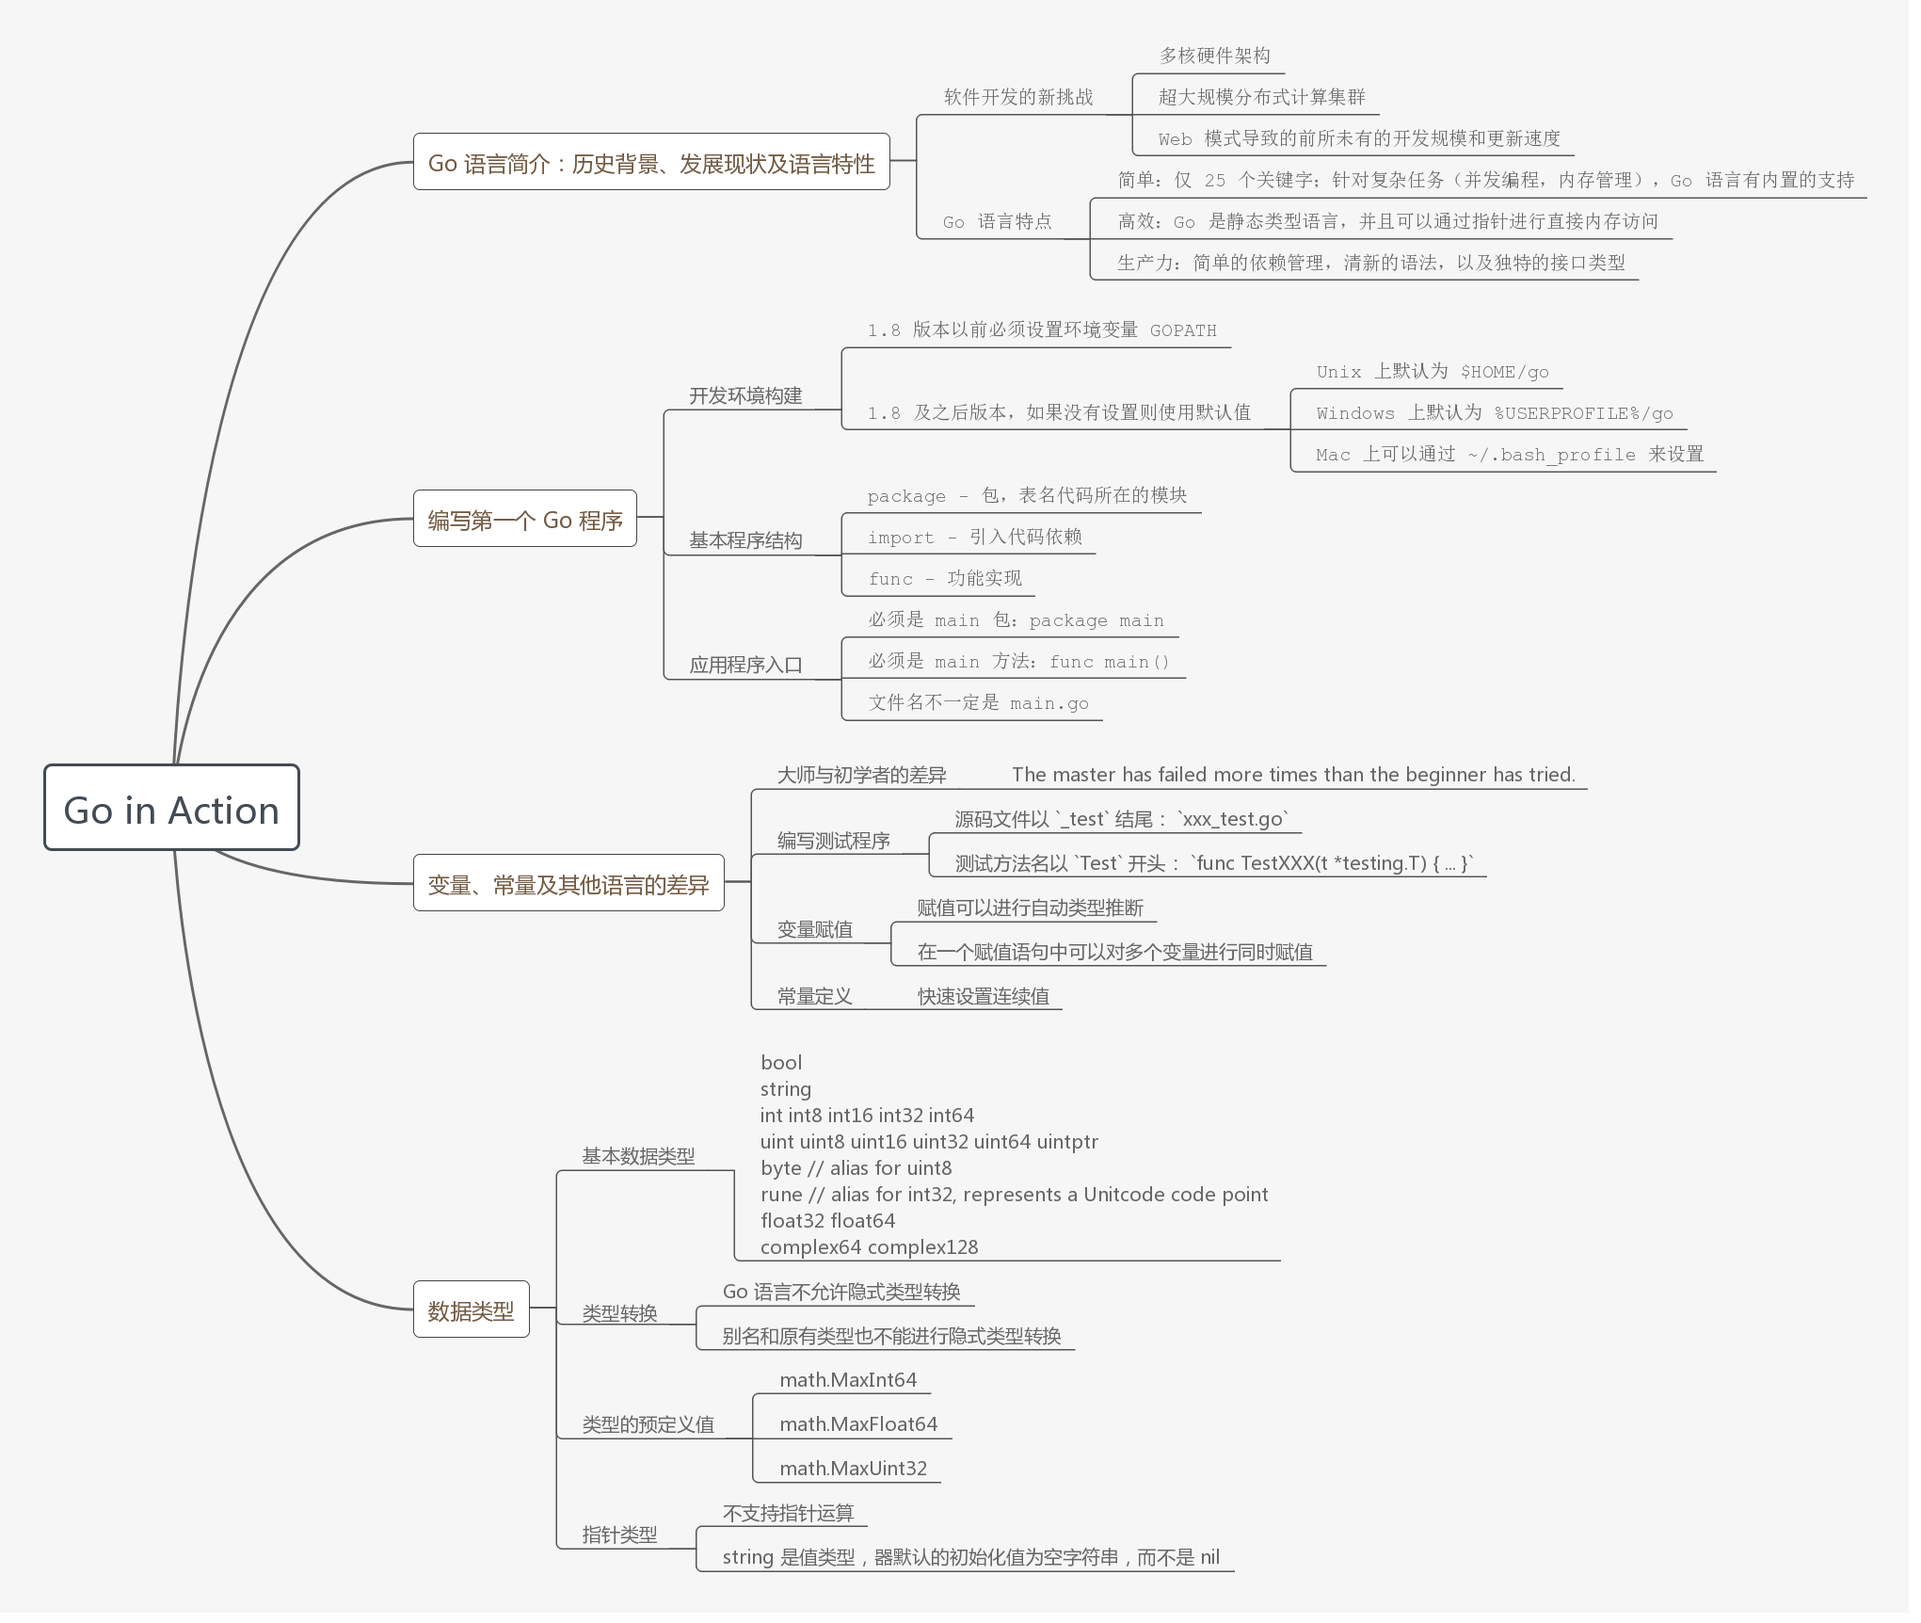
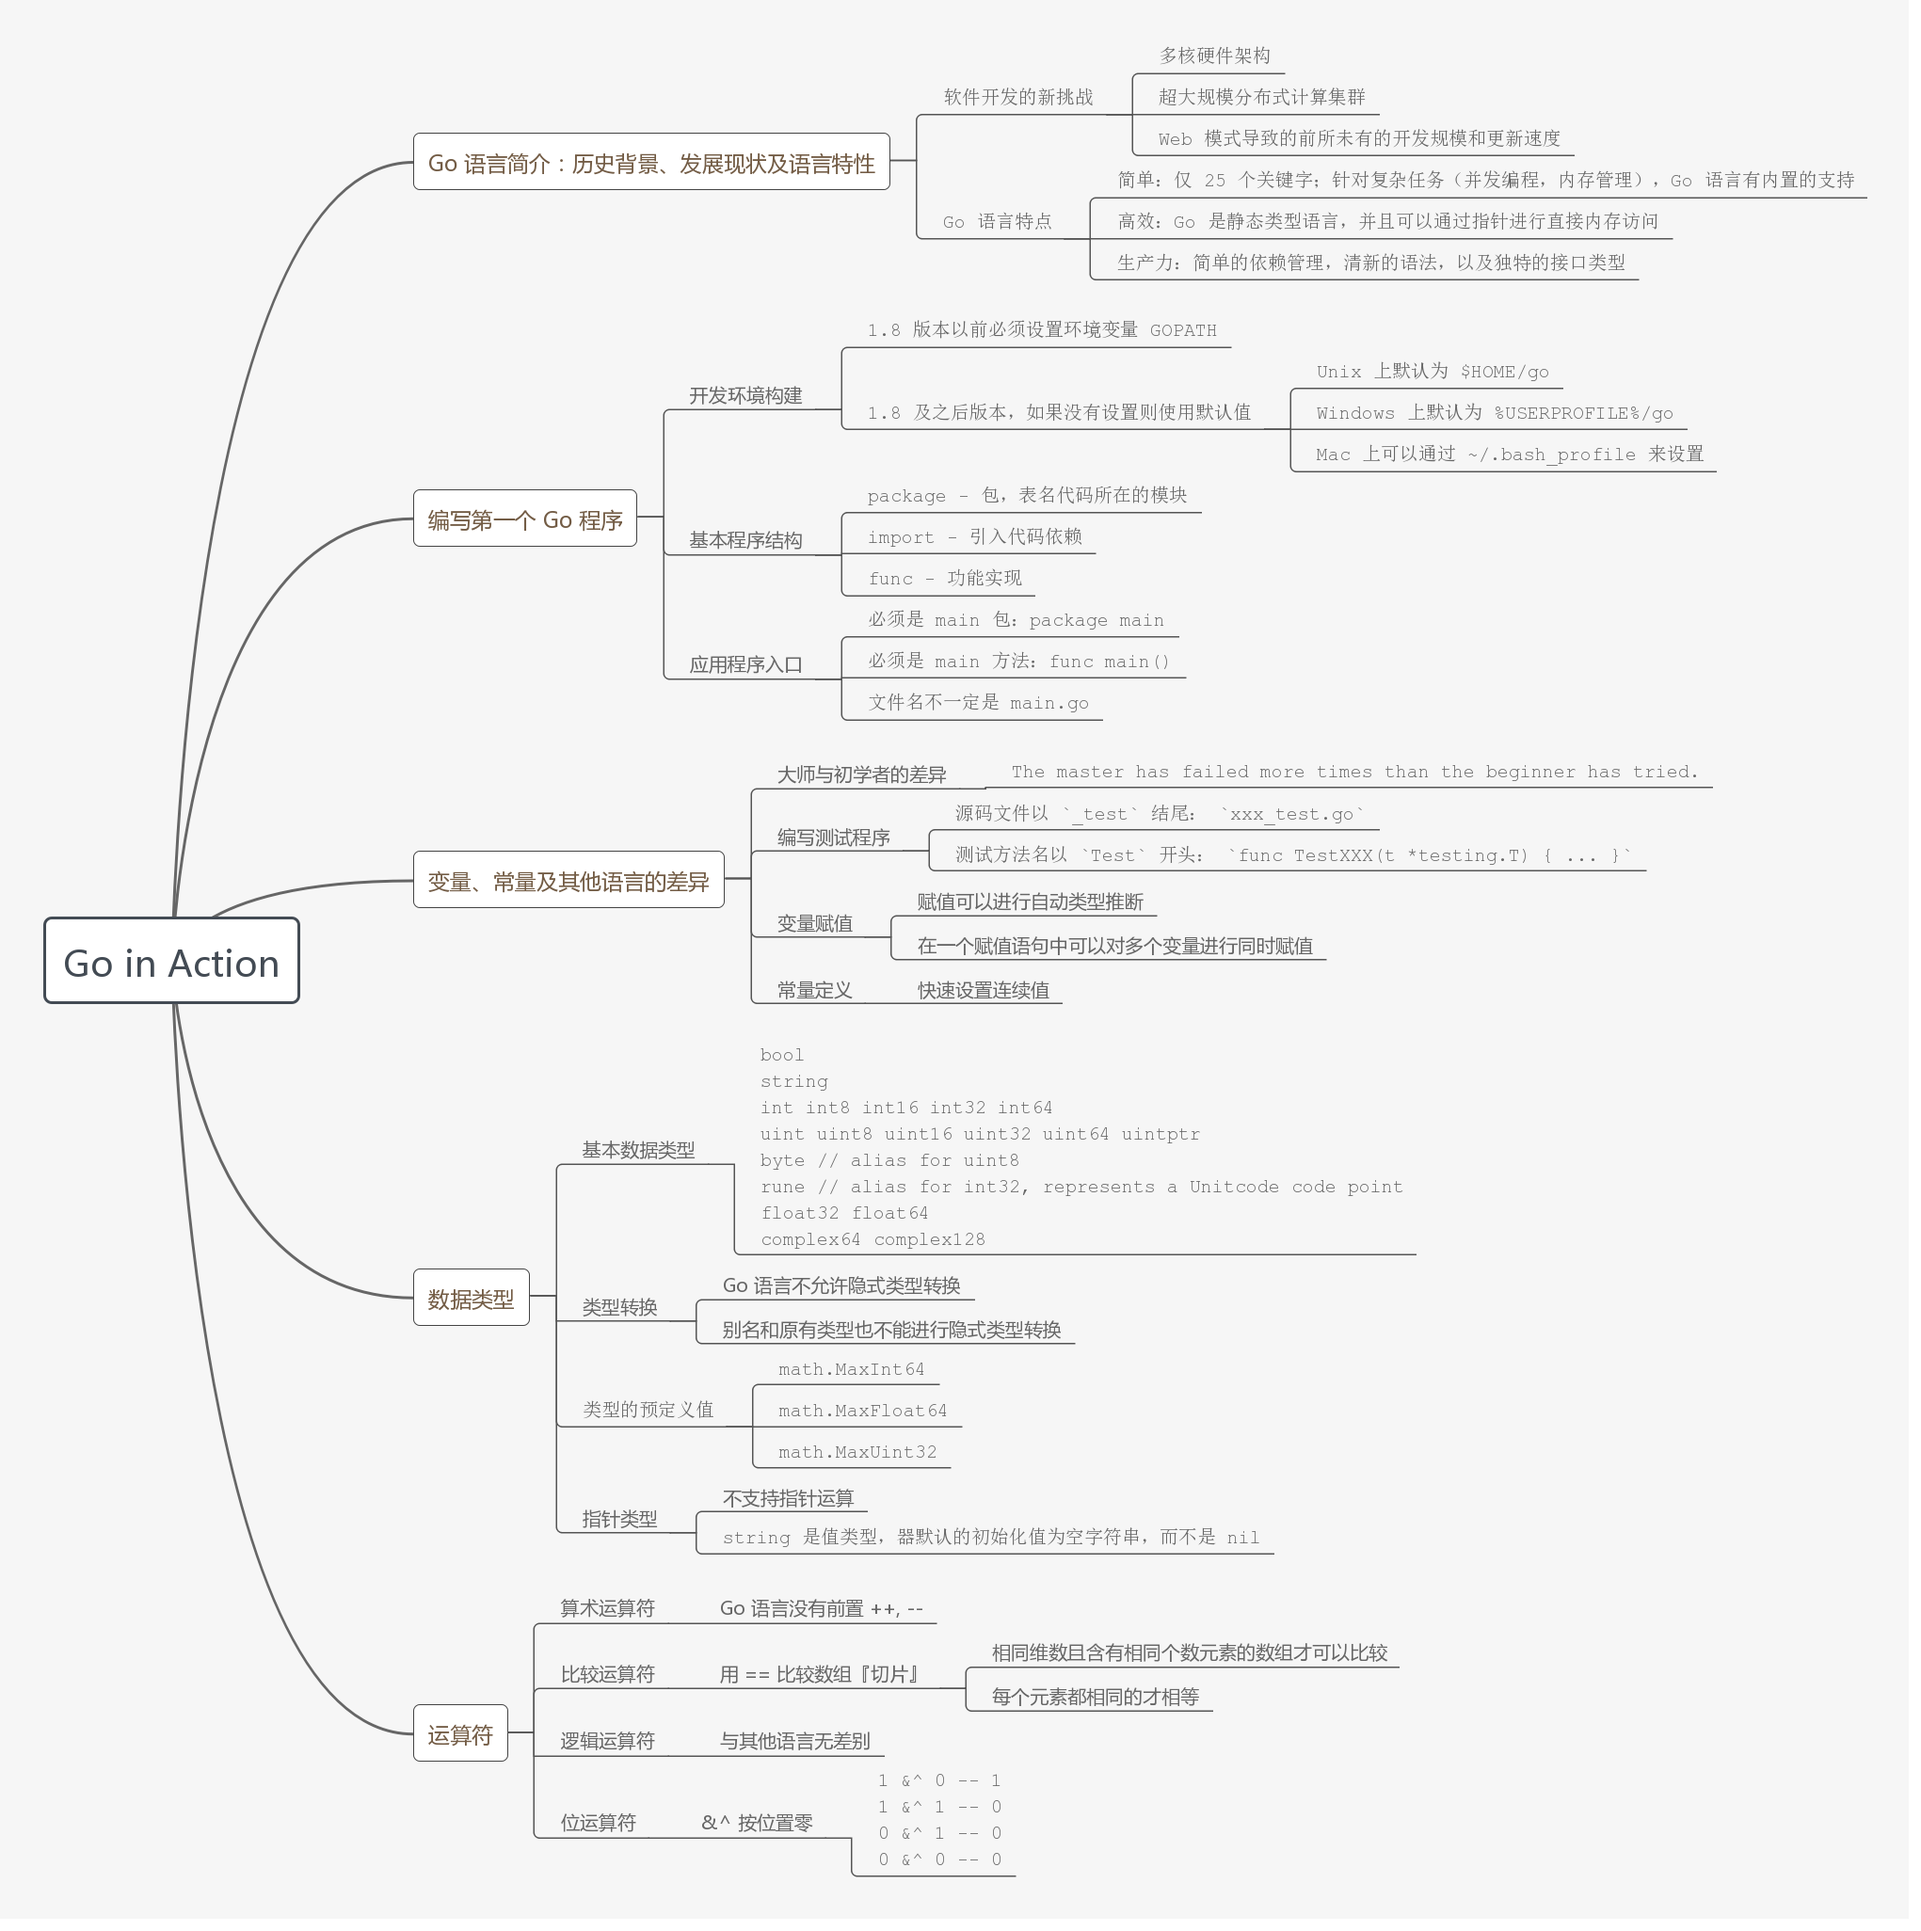
add chapter 07 note

diff --git a/src/chapter07/operator_test/operator_test.go b/src/chapter07/operator_test/operator_test.go
@@ -1,0 +1,28 @@
+package operator_test
+
+import "testing"
+
+func TestCompareArray(t *testing.T) {
+	a := [...]int{1, 2, 3, 4}
+	b := [...]int{1, 3, 4, 5}
+	//c := [...] int{1, 2, 3, 4, 5}
+	d := [...]int{1, 2, 3, 4}
+
+	t.Log(a == b)
+	//t.Log(a == c)
+	t.Log(a == d)
+}
+
+const (
+	Readable = 1 << iota
+	Writable
+	Executable
+)
+
+func TestBitClear(t *testing.T) {
+	a := 7 // 0111
+	a = a &^ Readable
+	a = a &^ Writable
+
+	t.Log(a&Readable == Readable, a&Writable == Writable, a&Executable == Executable)
+}

diff --git a/src/chapter07/README.md b/src/chapter07/README.md
@@ -1,0 +1,37 @@
+---
+title: Go-07-运算符
+date: 2019/06/09 16:09:06
+categories: 
+  - [Go-in-Action]
+tags: 
+  - [geektime]
+  - [Golang]
+---
+
+## 算术运算符
+
+Go 语言没有前置 ++, -- 
+
+## 比较运算符
+
+用 == 比较数组『切片』
+
+- 相同维数且含有相同个数元素的数组才可以比较
+- 每个元素都相同的才相等
+
+## 逻辑运算符
+
+与其他语言无差别
+
+## 位运算符
+
+与其他主要语言差异
+
+&^ 按位置零
+
+```
+1 &^ 0 -- 1
+1 &^ 1 -- 0
+0 &^ 1 -- 0
+0 &^ 0 -- 0
+```

diff --git a/README.md b/README.md
@@ -15,3 +15,4 @@ tags:
 - [Go-04-编写第一个 Go 程序](src/chapter04)
 - [Go-05-变量、常量以及其他语言的差异](src/chapter05)
 - [Go-06-数据类型](src/chapter06)
+- [Go-07-运算符](src/chapter07)
